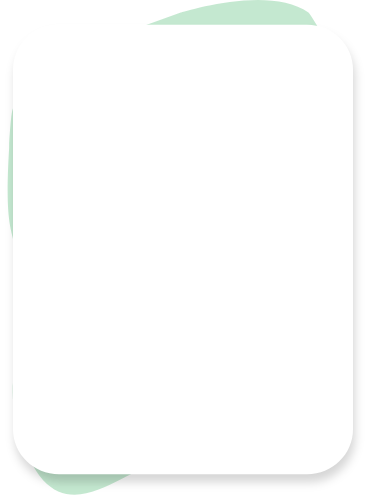
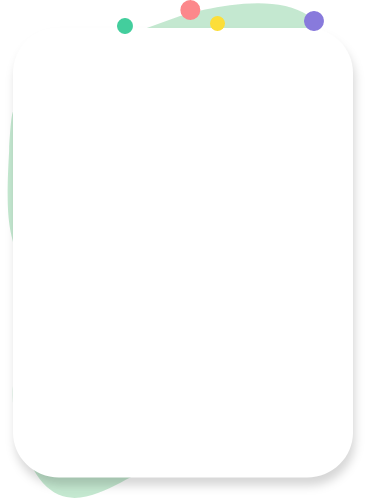
added testCard for first likedRecipe and rendered infos

Changed region(s): [[0.3865, 0.0, 0.8919, 0.0602], [0.2973, 0.0301, 0.3568, 0.0904]]

diff --git a/client/src/components/RecipeCardSmall.js b/client/src/components/RecipeCardSmall.js
@@ -1,8 +1,95 @@
-export default function RecipeCardSmall({ likedRecipes }) {
-    return (
-        <section>
-            <p>CardSmall</p>
+import { useState } from 'react'
+import styled from 'styled-components'
+import PropTypes from 'prop-types'
+import img from '../assets/RecipeCardSmall_Background.png'
 
-        </section>
+import Modal from './Modal'
+import { ButtonSecondary } from './Buttons'
+
+export default function RecipeCardSmall({ likedRecipes }) {
+
+    const [openModal, setOpenModal] = useState(false)
+
+    const hideModal = () => {
+        setOpenModal(false)
+    }
+
+    const missingIngredientsData = likedRecipes[0].missedIngredients.map((ingredient) => ingredient.name.toLowerCase())
+    const missingIngredients = missingIngredientsData.join(', ')
+
+    return (
+        <CardWrapper>
+            <header>
+                <img src={likedRecipes[0].image} alt={likedRecipes[0].title} />
+                <h3>{likedRecipes[0].title}</h3>
+            </header>
+
+            <ButtonSecondary
+                text="Cook Me"
+                isActive
+            />
+
+            {likedRecipes[0].missedIngredients.length > 0 &&
+                <p><span>You need:</span> {missingIngredients}</p>
+            }
+
+            <InfoButton onClick={() => setOpenModal(!openModal)}>Click for details</InfoButton>
+            <Modal
+                show={openModal}
+                handleClose={hideModal}>
+                <h3>Missing Ingredients:</h3>
+                <ul>
+                    {likedRecipes[0].missedIngredients && likedRecipes[0].missedIngredients.map((missedIngredient) => (
+                        <li key={missedIngredient.id}>{missedIngredient.amount} {missedIngredient.unitShort} {missedIngredient.name.toLowerCase()}</li>
+                    ))}
+                </ul>
+
+                <h3>Used Ingredients:</h3>
+                <ul>
+                    {likedRecipes[0].usedIngredients && likedRecipes[0].usedIngredients.map((usedIngredient) => (
+                        <li key={usedIngredient.id}>{usedIngredient.amount} {usedIngredient.unitShort} {usedIngredient.name.toLowerCase()}</li>
+                    ))}
+                </ul>
+            </Modal>
+
+
+        </CardWrapper>
     )
 }
+
+const CardWrapper = styled.section`
+align-items: center;
+background-image: url(${img});
+background-size: cover;
+background-repeat: no-repeat;
+background-position-x: center;
+display: flex;
+flex-direction: column;
+flex-wrap: wrap;
+margin-bottom: 10px;
+min-height: 500px;
+max-width: 360px;
+min-width: 320px;
+padding: 2rem;
+
+header {
+    display: flex;
+    flex-direction: row;
+    margin-bottom: 1rem;
+}
+
+img {
+    border-radius: 15px;
+    height: 50%;
+    margin-right: .6rem;
+    width: 50%;
+}
+
+button {
+    width: fit-content;
+}
+`
+const InfoButton = styled.p`
+color: var(--clr-accent1);
+font-weight: var(--fw-bold);
+`

diff --git a/client/src/pages/RecipeSelection.js b/client/src/pages/RecipeSelection.js
@@ -3,7 +3,7 @@ import RecipeCardSmall from '../components/RecipeCardSmall'
 export default function RecipeSelection({ likedRecipes }) {
     return (
         <section>
-            <p>Selection</p>
+            <h2>My Recipes</h2>
             <RecipeCardSmall
                 likedRecipes={likedRecipes} />
         </section>
